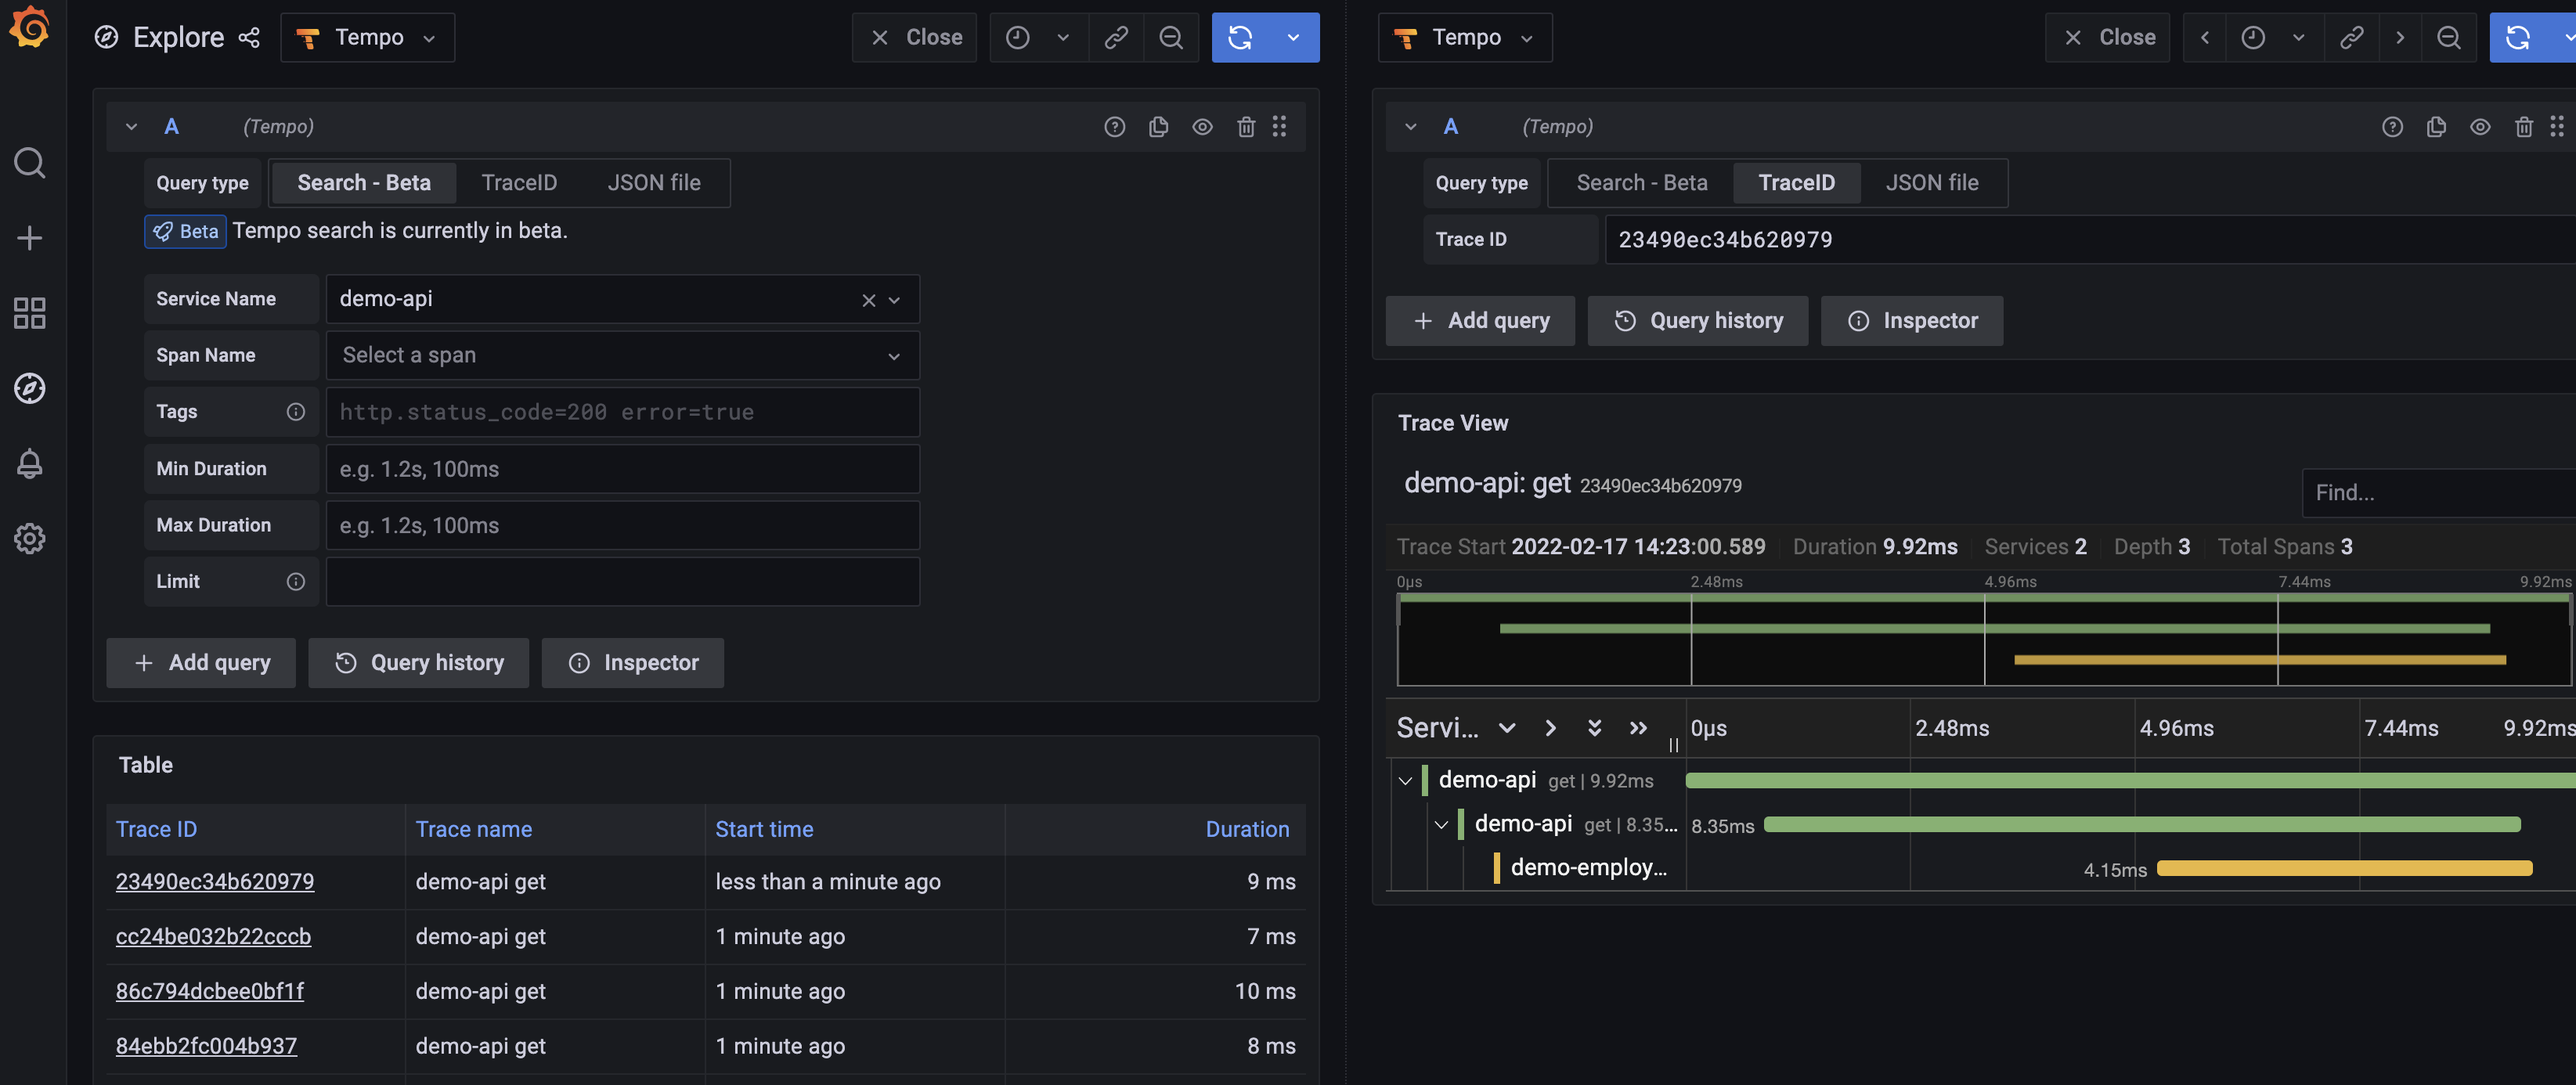
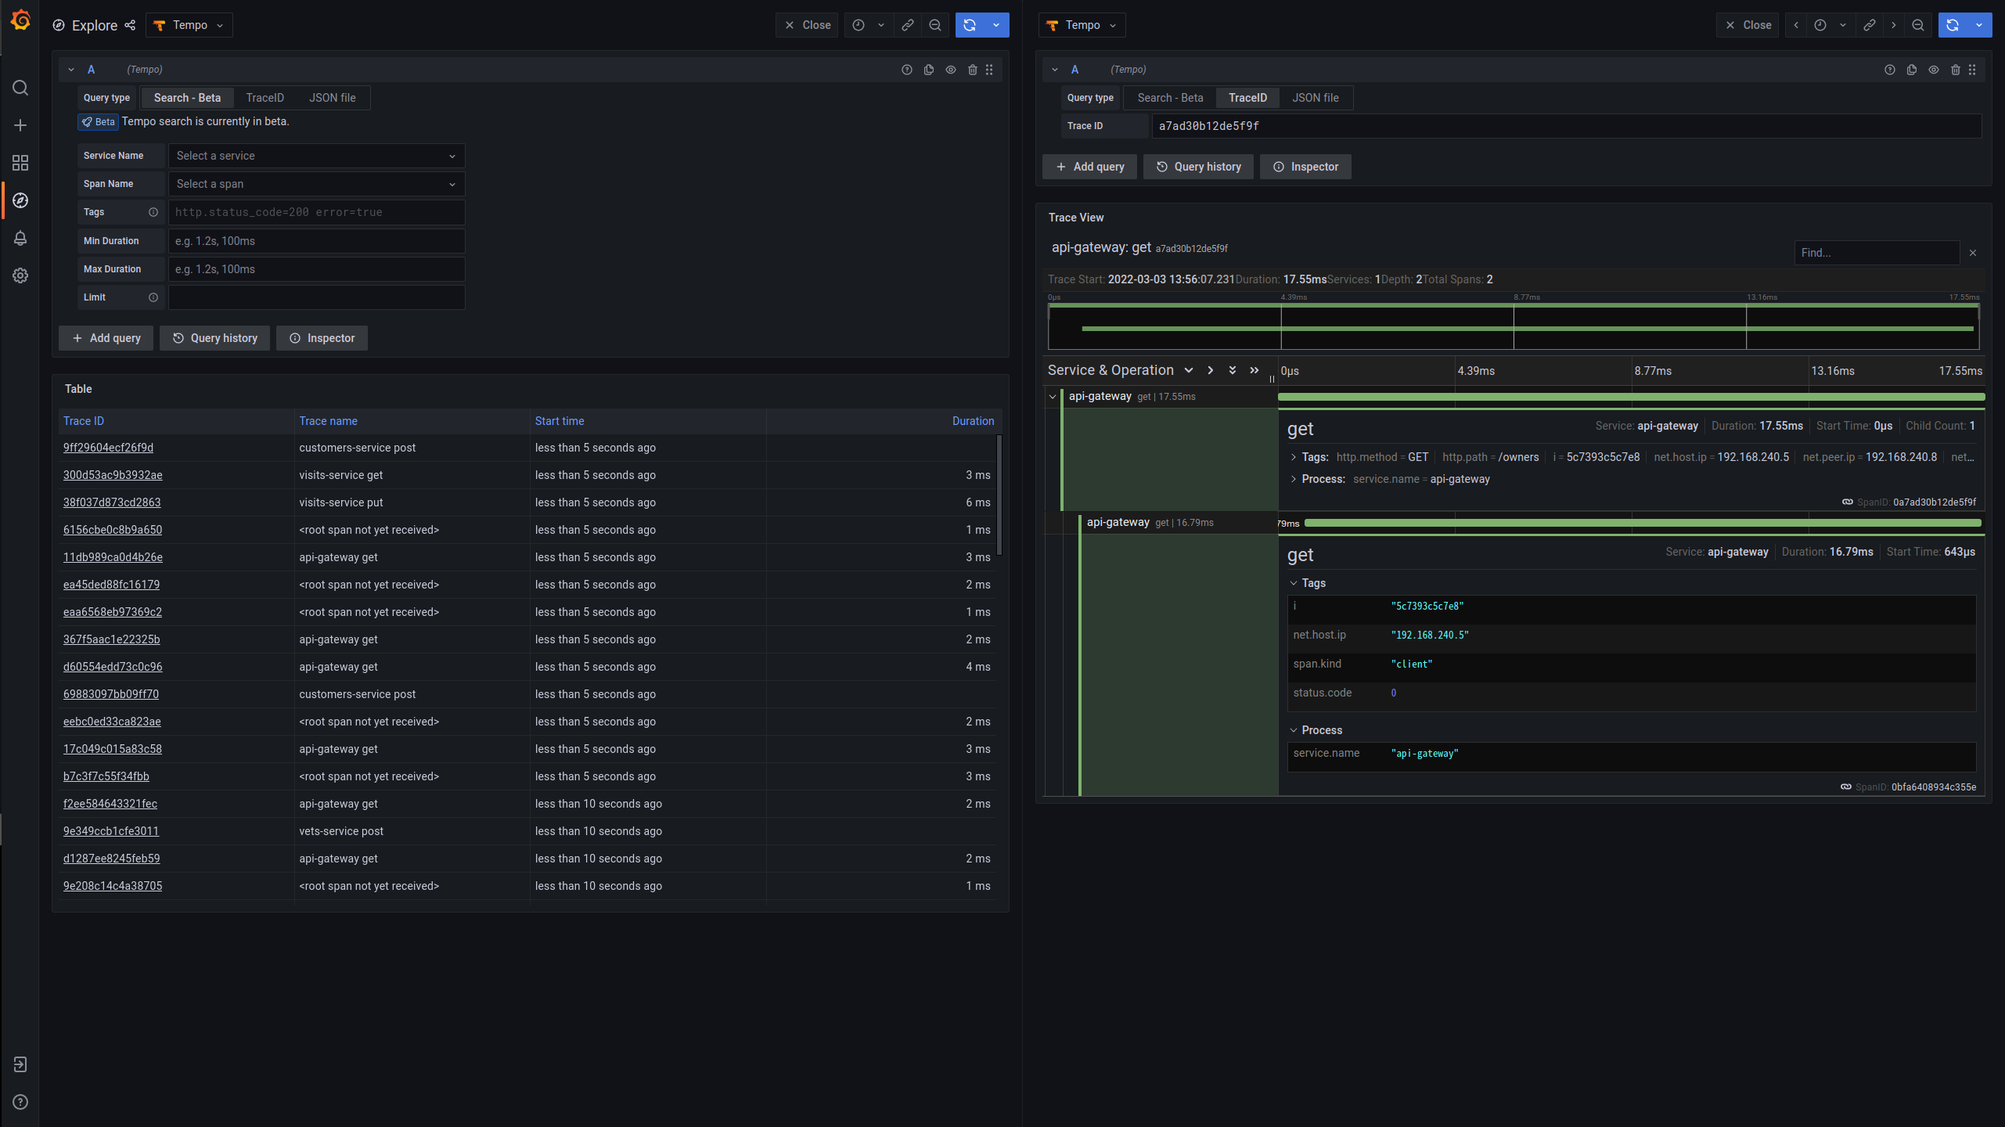
Update README.md

diff --git a/README.md b/README.md
@@ -8,7 +8,7 @@ A repository demonstrate how to leverage the EaseAgent to monitor java applicati
     - [Prerequisites](#prerequisites)
     - [Start the full stack](#start-the-full-stack)
     - [Stop the full stack](#stop-the-full-stack)
-    - [](#)
+    - [Visualization](#visualization)
   
 ## Purpose
 With the EaseAgent, the metrics of [spring-petclinic applications](https://github.com/spring-petclinic/spring-petclinic-microservices) like throughput, latency, and tracing data could be collected prometheus and tempo. The Grafana allows us to query, visualize, on and understand our metrics that we stored in tempo and prometheus.
@@ -48,4 +48,21 @@ After you finished test, using following command to destroy service
 ```
 ./spring-petclinic.sh stop
 ```
-### 
+### Visualization
+
+Just follow the step-by-step instructions, which will guide you get a good visualization
+
+- Step 1. In order to get a well visualization, you could wait a moment (about to five minutes) before the prometheus collect enough metric data. Open a browser (chrome, firefox or edge are good). Input the `localhost:3000` in the address bar and press enter to open grafana UI.
+
+- Step 2. Click the `search dashboards`, the first icon in the left menu bar. Choose the `spring-petclinic-easeagent` to open the dashboard we prepare for you.
+  
+- Step 3. You will get a visualization of metrics reported by the EaseAgent. In the dashboard we classified into two group. One is the JVM metrics which contain GC executing count ,GC executing time, and used memory capacity (Eden, Olden, etc...).  The second the important metrics of the application, including throughput, latency, in different measures, for example, http request throughput and latency, JDBC SQL throughput and latency.
+
+
+![metric](./doc/images/metric.png)
+
+
+- Step 4. If you want check the tracing data, you could click the `explore` in the left menu bar. Click the `Search - beta` to switch search mode. Click `search query` button in the right up corner, there is a list appeared contains many tracing. Chose one to click.
+
+![tracing](./doc/images/tracing.png)
+
